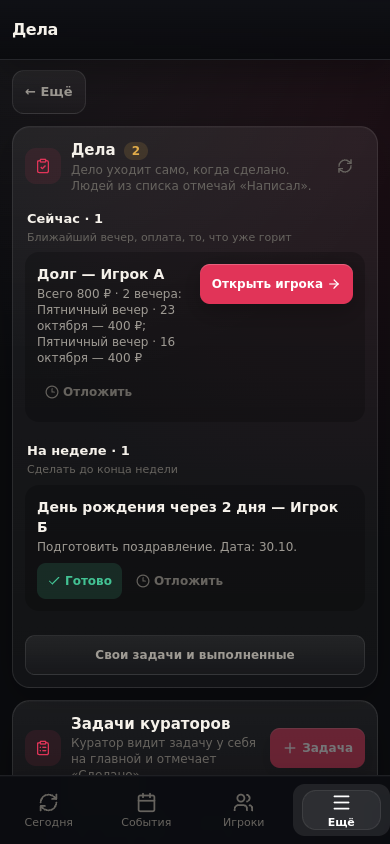
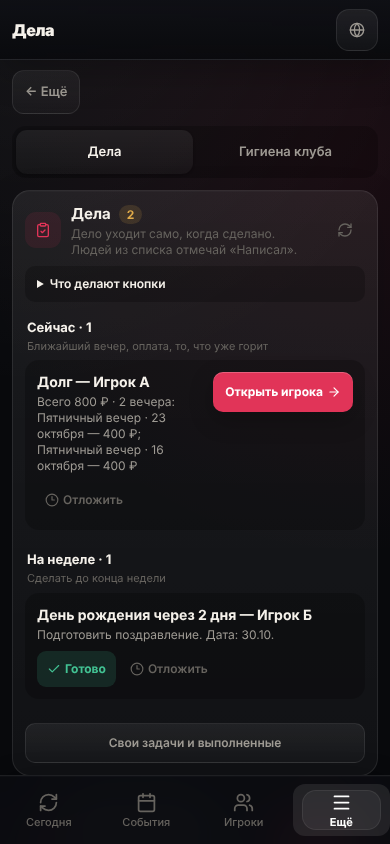
Судоку: без карточки на главной (её не просили); вход из «Мини-игр» и утреннего поста
Claude-Session: https://claude.ai/code/session_01UGftK2myEgsRn5tQPba9D3

diff --git a/src/components/player/PlayerCabinetShell.tsx b/src/components/player/PlayerCabinetShell.tsx
@@ -100,7 +100,7 @@ export default function PlayerCabinetShell({ data, canOpenAdmin = false, canOpen
       <div data-testid="player-live-status-slot" className={`player-live-status-slot ${section === 'home' ? '' : 'player-live-status-slot--compact'}`}><PlayerLiveOnlyCenter compact={section !== 'home'} /></div>
 
       {section === 'home' ? (
-        <PlayerHomeDashboard onOpenDailyWord={() => open('dailyword')} onOpenSudoku={() => open('sudoku')} data={currentData} onOpenEvents={(eventId) => open('events', eventId || null)} onOpenGames={() => open('games')} onOpenMyGames={() => open('games')} onOpenGame={(gameKey) => open('games', gameKey)} onOpenRating={() => open('rating')} onOpenWallet={() => open('wallet')} onOpenLearning={() => open('profile', 'tab:learning')} />
+        <PlayerHomeDashboard onOpenDailyWord={() => open('dailyword')} data={currentData} onOpenEvents={(eventId) => open('events', eventId || null)} onOpenGames={() => open('games')} onOpenMyGames={() => open('games')} onOpenGame={(gameKey) => open('games', gameKey)} onOpenRating={() => open('rating')} onOpenWallet={() => open('wallet')} onOpenLearning={() => open('profile', 'tab:learning')} />
       ) : isPlayerEveningSection(section) ? (
         <PlayerEveningsHub data={currentData} section={section as PlayerEveningsSection} target={target} onOpen={(next, target) => open(next, target || null)} onOpenPoker={(tableId) => open('poker', tableId || null)} />
       ) : isPlayerCommunitySection(section) ? (
@@ -116,7 +116,7 @@ export default function PlayerCabinetShell({ data, canOpenAdmin = false, canOpen
           <PlayerConductCenter data={currentData} canOpenAdmin={canOpenAdmin} onBackToCrm={canOpenAdmin && onOpenAdminAt ? () => onOpenAdminAt('/admin/more/music') : undefined} initialPane={target === 'music' ? 'music' : 'games'} onPaneChange={(pane) => open('conduct', pane === 'music' ? 'music' : null)} />
         </Suspense>
       ) : (
-        <PlayerHomeDashboard onOpenDailyWord={() => open('dailyword')} onOpenSudoku={() => open('sudoku')} data={currentData} onOpenEvents={(eventId) => open('events', eventId || null)} onOpenGames={() => open('games')} onOpenMyGames={() => open('games')} onOpenGame={(gameKey) => open('games', gameKey)} onOpenRating={() => open('rating')} onOpenWallet={() => open('wallet')} onOpenLearning={() => open('profile', 'tab:learning')} />
+        <PlayerHomeDashboard onOpenDailyWord={() => open('dailyword')} data={currentData} onOpenEvents={(eventId) => open('events', eventId || null)} onOpenGames={() => open('games')} onOpenMyGames={() => open('games')} onOpenGame={(gameKey) => open('games', gameKey)} onOpenRating={() => open('rating')} onOpenWallet={() => open('wallet')} onOpenLearning={() => open('profile', 'tab:learning')} />
       )}
 
       <PlayerBottomNavigation section={section} onOpen={openBottom} />

diff --git a/src/components/player/PlayerDailySudoku.tsx b/src/components/player/PlayerDailySudoku.tsx
@@ -38,18 +38,6 @@ function useDailySudoku() {
   return { state, setState, error, setError, load };
 }
 
-export function DailySudokuCard({ onOpen }: { onOpen: () => void }) {
-  const { state, error, load } = useDailySudoku();
-  const text = !state ? 'Одно судоку для всего клуба и награда за решение.'
-    : state.status === 'won' ? `Решено за ${formatSudokuTime(state.seconds ?? 0)} · +${state.reward_earned} жетонов`
-    : state.status === 'lost' ? 'Игра завершена. Завтра — новое судоку.'
-    : `Сегодня ${SUDOKU_LEVEL_LABEL[state.level]} · ${state.reward} жетонов за решение`;
-  return <section className="dw-card" aria-label="Судоку"><div className="dw-eyebrow">Каждый день · бесплатно</div><h2>Судоку</h2><p>{text}</p>
-    {error ? <><p role="alert">{error}</p><button type="button" onClick={() => void load()}>Повторить загрузку</button></>
-      : <button type="button" onClick={onOpen}>{state?.status === 'playing' ? 'Продолжить' : state?.status === 'won' || state?.status === 'lost' ? 'Мой результат' : 'Играть бесплатно'} <span aria-hidden="true">→</span></button>}
-  </section>;
-}
-
 export default function PlayerDailySudoku({ onExit, onTokenBalanceChange }: { onExit: () => void; onTokenBalanceChange?: (balance: number) => void }) {
   const { state, setState, error, setError, load } = useDailySudoku();
   const [selected, setSelected] = useState<number | null>(null);

diff --git a/src/components/player/PlayerHomeDashboard.tsx b/src/components/player/PlayerHomeDashboard.tsx
@@ -1,7 +1,6 @@
 import { getJsonIfOk } from '../../lib/requestJson.ts';
 import { useCallback, useEffect, useMemo, useRef, useState } from 'react';
 import { DailyWordCard } from './PlayerDailyWord.tsx';
-import { DailySudokuCard } from './PlayerDailySudoku.tsx';
 import WhatsNewCard from './WhatsNewCard.tsx';
 import VotePromptCard from './VotePromptCard.tsx';
 import { EVENING_FORMAT_LABELS, normalizeEveningFormat } from '../../lib/eveningFormat.ts';
@@ -68,7 +67,6 @@ export default function PlayerHomeDashboard({
   onOpenWallet,
   onOpenLearning,
   onOpenDailyWord,
-  onOpenSudoku,
 }: {
   data: PlayerMeResponse;
   onOpenEvents: (eventId?: string | null) => void;
@@ -83,7 +81,6 @@ export default function PlayerHomeDashboard({
   /** «Прогресс → Обучение». */
   onOpenLearning?: () => void;
   onOpenDailyWord?: () => void;
-  onOpenSudoku?: () => void;
 }) {
   const [evenings, setEvenings] = useState<HomeEvening[] | null>(null);
   const [eveningsError, setEveningsError] = useState(false);
@@ -255,7 +252,6 @@ export default function PlayerHomeDashboard({
         </section>
 
         {onOpenDailyWord && <DailyWordCard onOpen={onOpenDailyWord} />}
-        {onOpenSudoku && <DailySudokuCard onOpen={onOpenSudoku} />}
         <VotePromptCard />
         <CuratorTasksCard />
 

diff --git a/e2e/daily-sudoku-harness.tsx b/e2e/daily-sudoku-harness.tsx
@@ -1,7 +1,7 @@
 import React from 'react';
 import {createRoot} from 'react-dom/client';
 import './appStyles.ts';
-import PlayerDailySudoku,{DailySudokuCard} from '../src/components/player/PlayerDailySudoku.tsx';
+import PlayerDailySudoku from '../src/components/player/PlayerDailySudoku.tsx';
 import type {DailySudokuState} from '../src/shared/dailySudoku.ts';
 
 // A fixed solved grid for the preview; the harness answers like the server (right digit stays, wrong one is a mistake).
@@ -32,4 +32,4 @@ globalThis.fetch=async(input:RequestInfo|URL,init?:RequestInit)=>{
  }
  return json(state);
 };
-createRoot(document.getElementById('root')!).render(mode==='card'?<div style={{maxWidth:430,padding:12,margin:'auto',background:'#090a0d',color:'white'}}><DailySudokuCard onOpen={()=>location.assign('/e2e/daily-sudoku.html')}/></div>:<PlayerDailySudoku onExit={()=>location.assign('/e2e/player-cabinet.html?route=/player/club/games')}/>);
+createRoot(document.getElementById('root')!).render(<PlayerDailySudoku onExit={()=>location.assign('/e2e/player-cabinet.html?route=/player/club/games')}/>);

diff --git a/docs/FEATURE_MAP.md b/docs/FEATURE_MAP.md
@@ -69,10 +69,10 @@ This map reflects current `main`. Do not use old roadmap text to infer that a su
 
 ### Daily sudoku
 
-- Player page and home card: `PlayerDailySudoku.tsx` + `dailySudoku.css` (frame shared with `dailyWord.css`), at `/player/sudoku` through `PlayerCabinetShell.tsx`; entry from Home and Community → Mini-games.
+- Player page: `PlayerDailySudoku.tsx` + `dailySudoku.css` (frame shared with `dailyWord.css`), at `/player/sudoku` through `PlayerCabinetShell.tsx`; entry from Community → Mini-games and the morning «Новости» post (no Home card: not asked by the owner).
 - Contract/levels/share: `shared/dailySudoku.ts`; generator with uniqueness check `server/services/sudokuGenerator.ts`.
 - API `dailySudokuRoutes.ts` under `/api/player/daily-sudoku` (GET, `/start`, `/move`); service `dailySudokuService.ts`, schema `ensureDailySudokuSchema.ts`; reward through `tokenLedgerService.ts`. Morning post line: `botNewsPostService.ts`.
-- Coverage: `dailySudoku.integration.test.ts`, `botNewsPosts.test.ts`; all-app audit includes new/playing/notes/won/lost/card/error.
+- Coverage: `dailySudoku.integration.test.ts`, `botNewsPosts.test.ts`; all-app audit includes new/playing/notes/won/lost/error.
 
 ### Daily word
 
